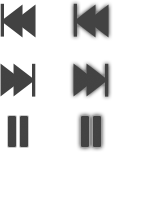
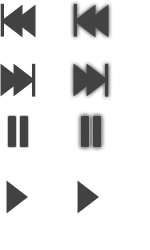
play

diff --git a/style/soundcloud-player.css b/style/soundcloud-player.css
@@ -48,7 +48,7 @@
 
 #player .play {
   left: 60px;
-  background-position: 7px 4px;
+  background-position: 10px -172px;
 }
 
 #player .pause {
